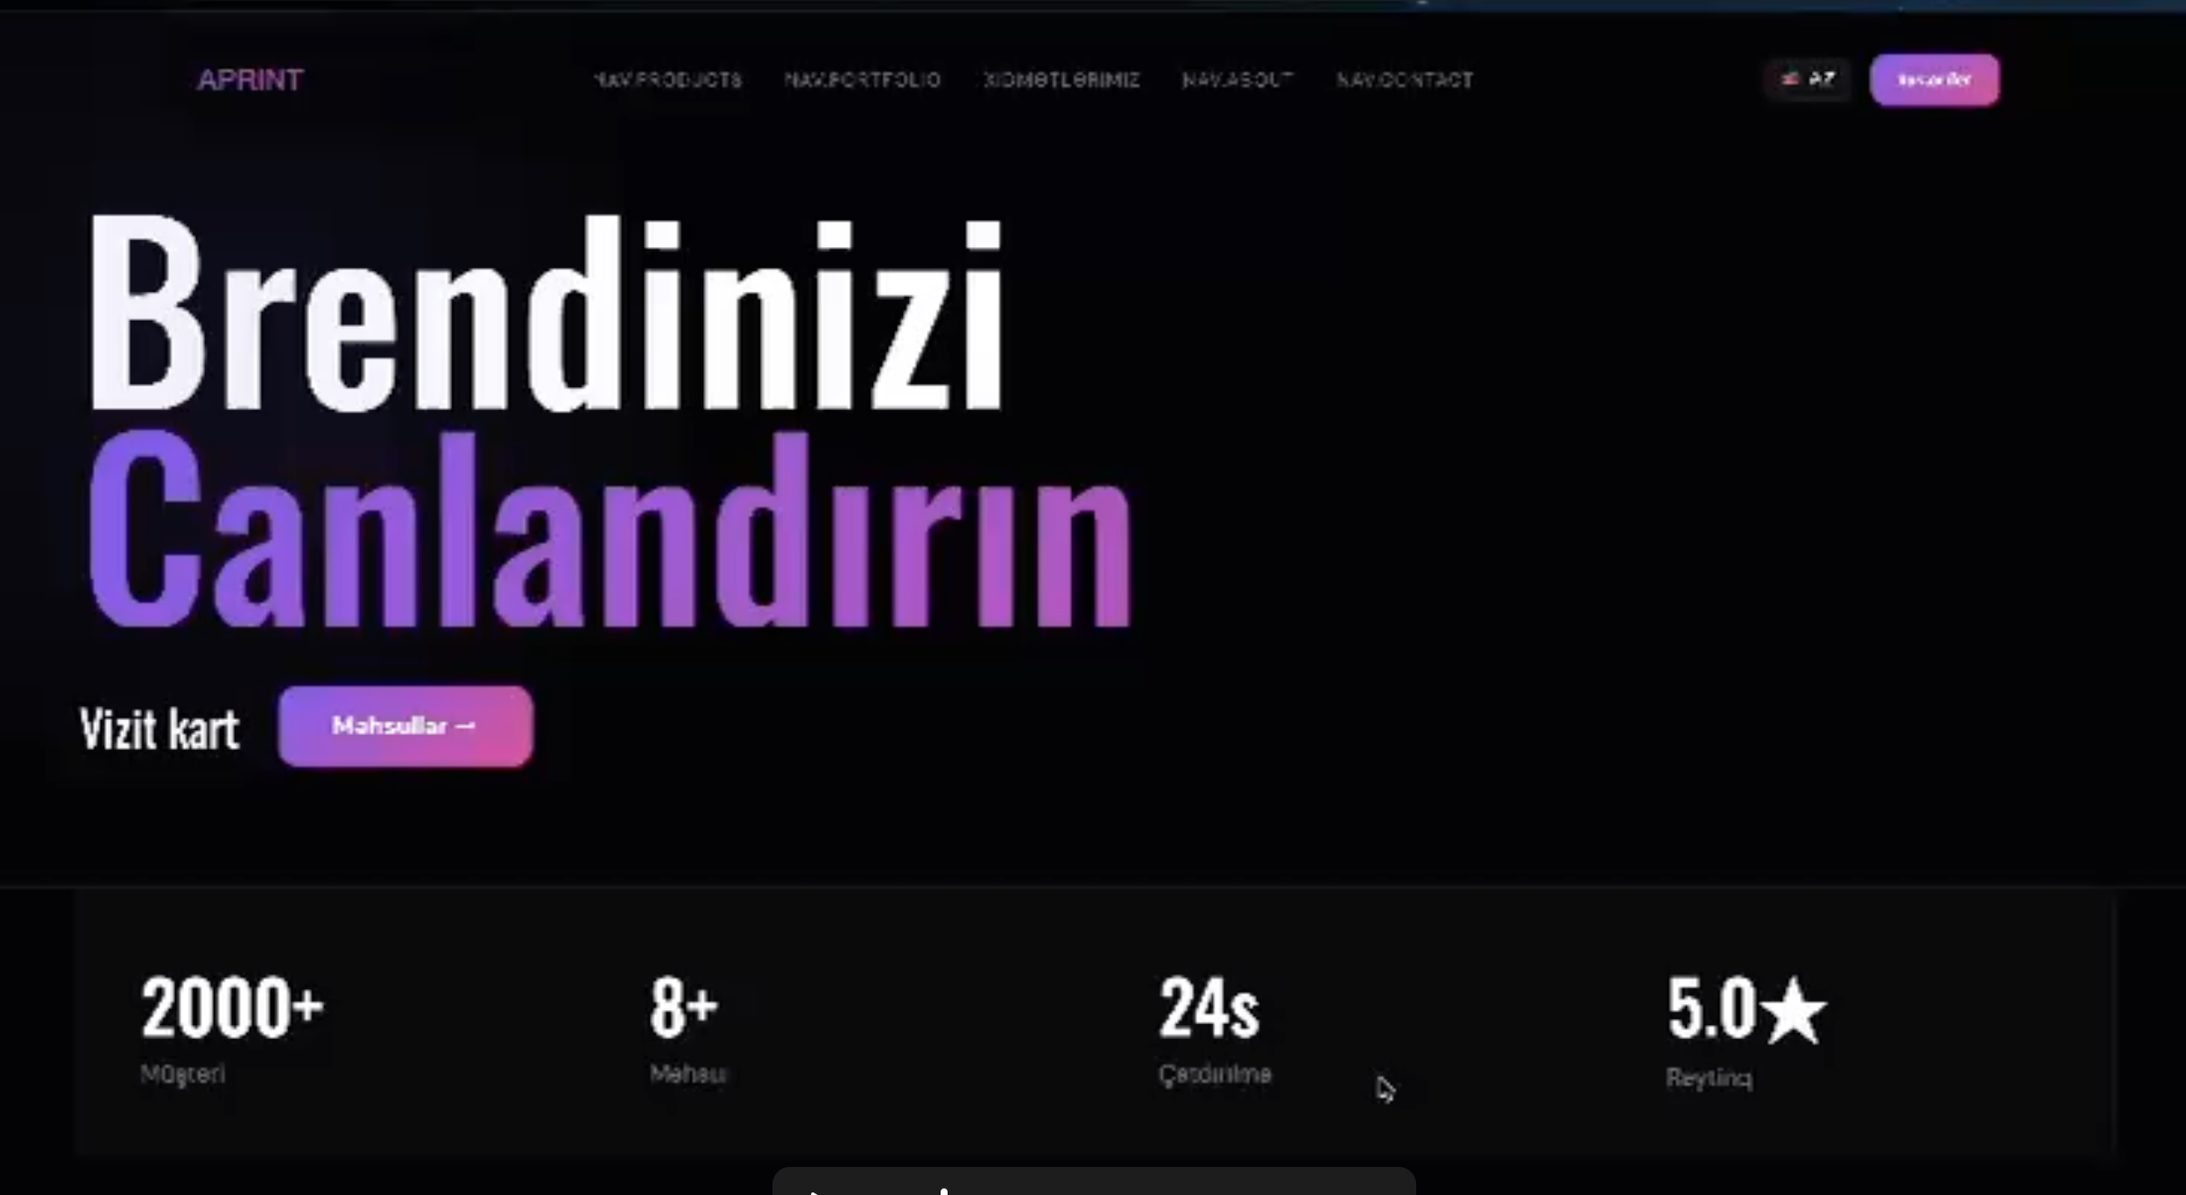
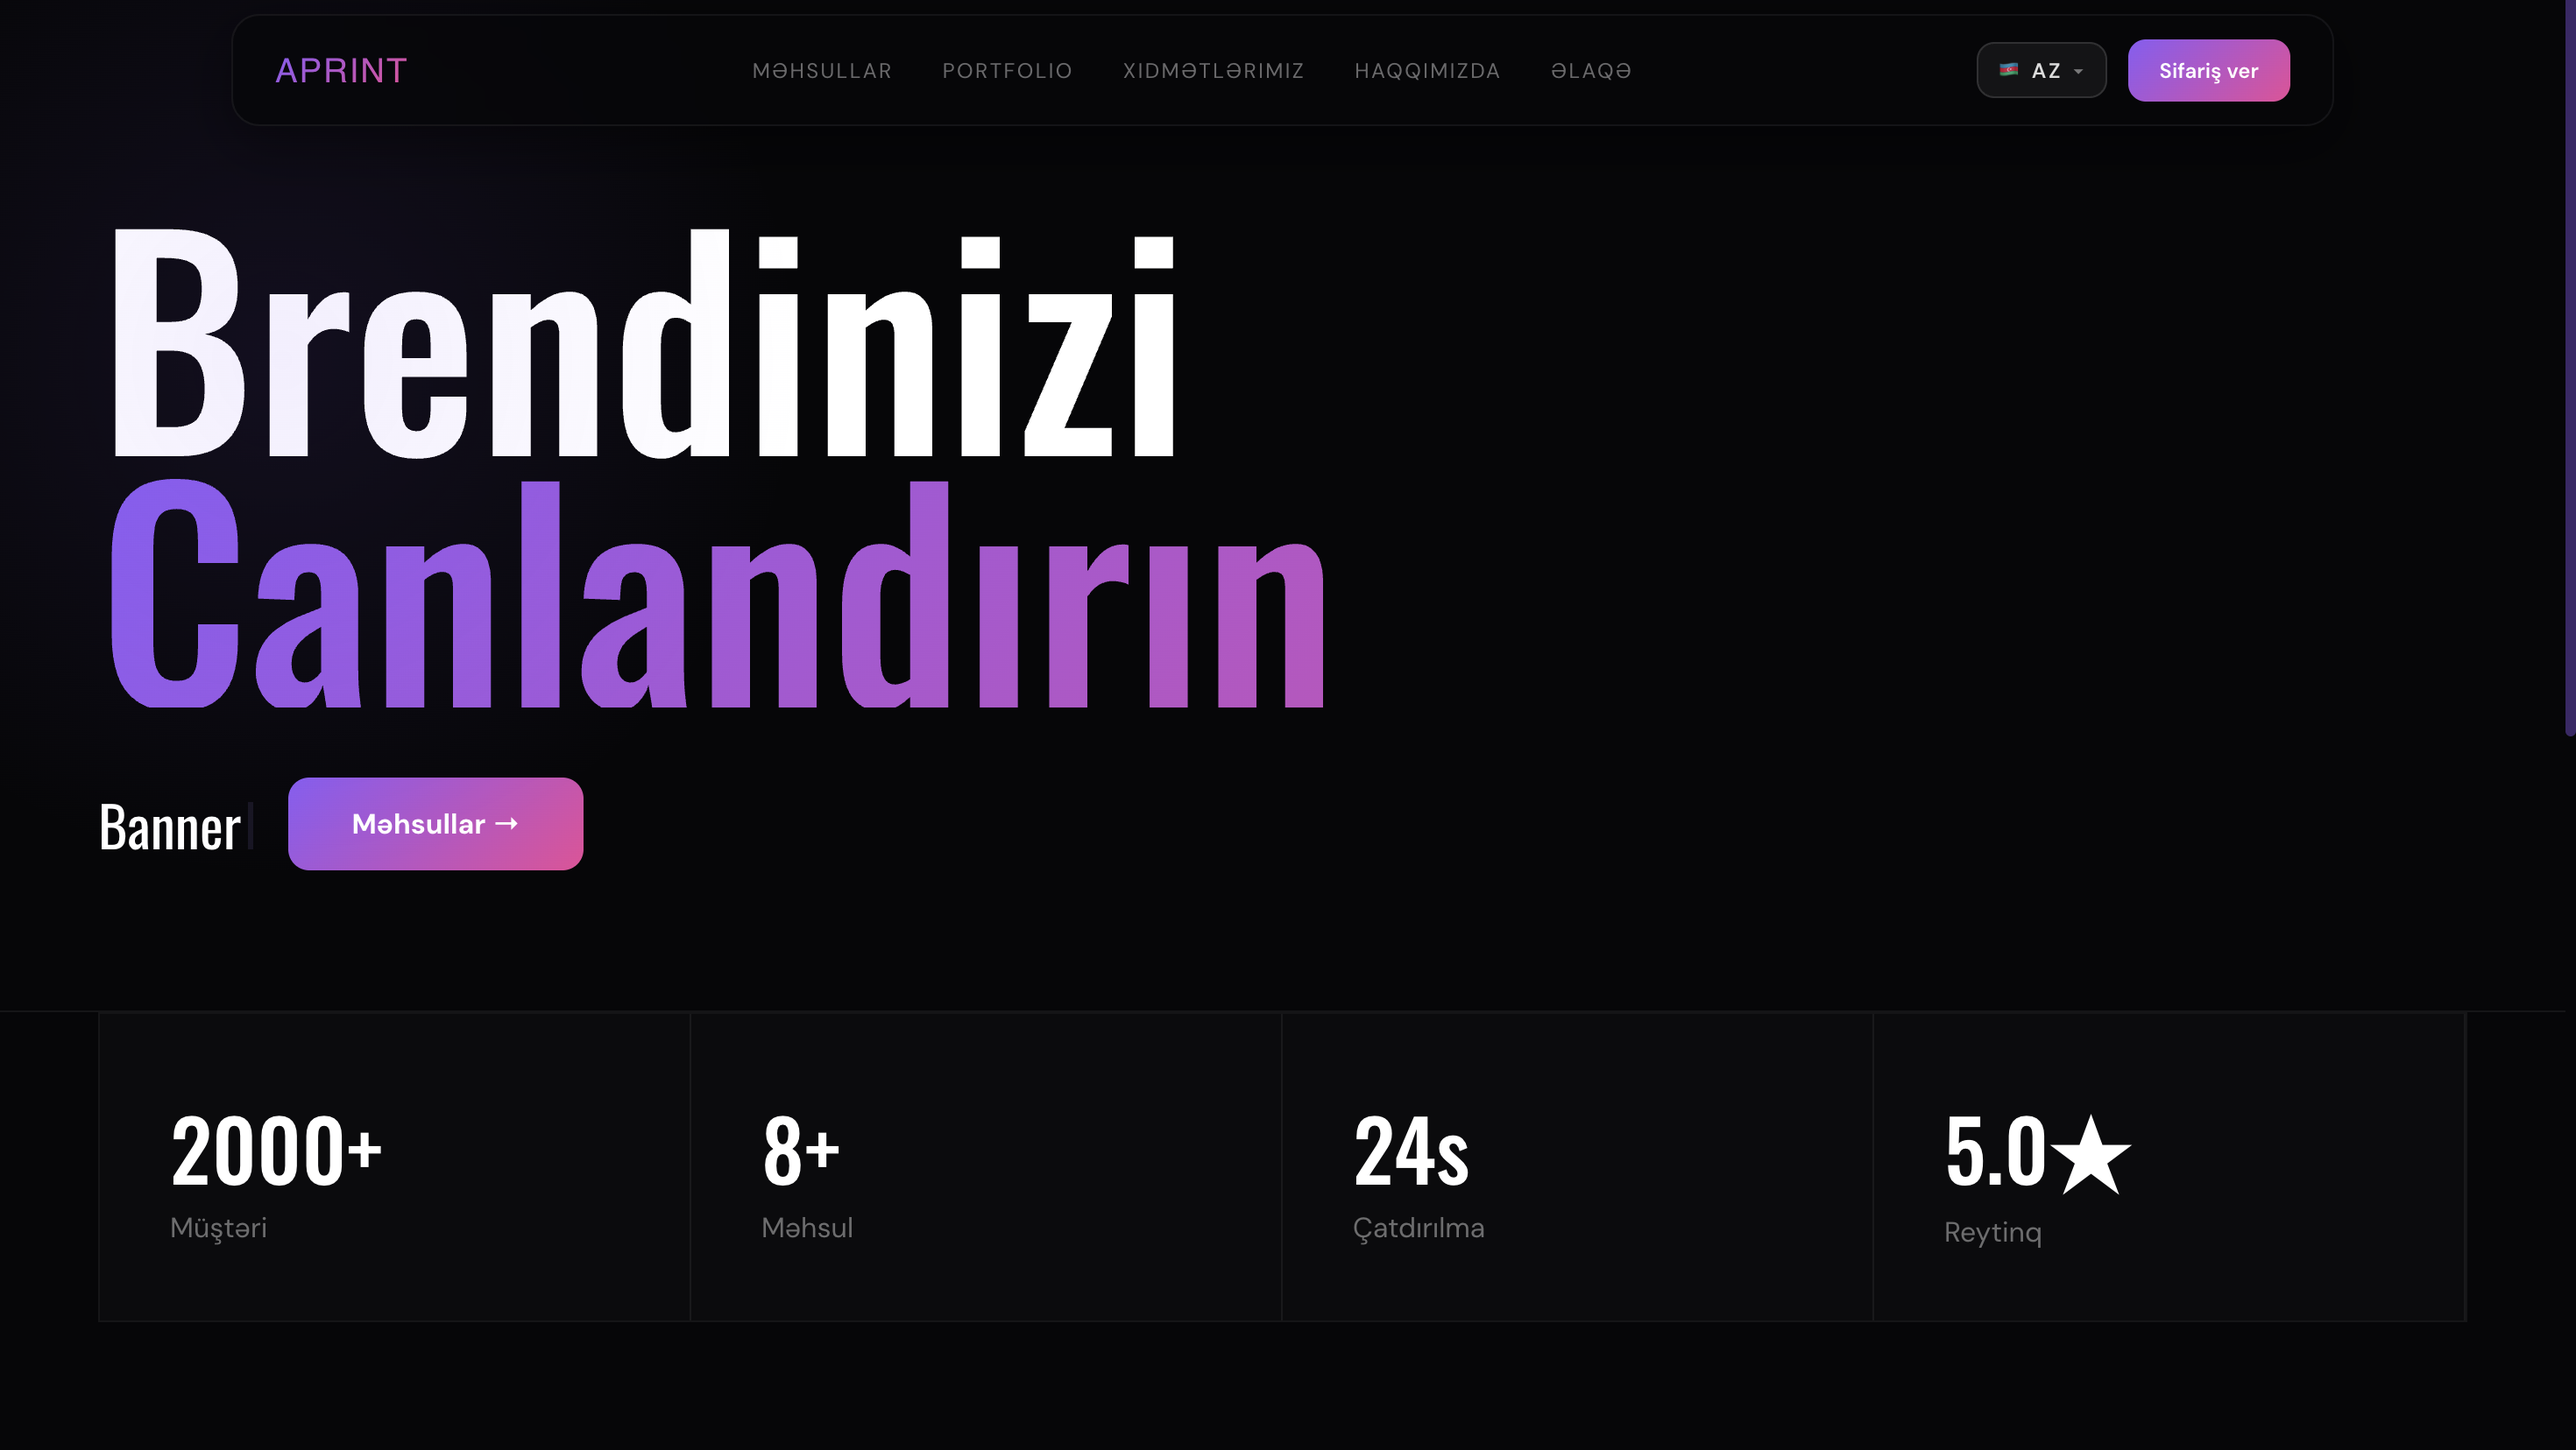
fixed code

diff --git a/src/sections/Hero/Hero.module.css b/src/sections/Hero/Hero.module.css
@@ -83,7 +83,7 @@
   letter-spacing: 0.2em;              /* Wide tracking for UPPERCASE */
   font-weight: 700;
   text-transform: uppercase;
-  color: #7dd3fc;
+  color: #fbfbfb;
   margin: 0 0 24px;                   /* 8pt grid: 24px */
   width: fit-content;
 }
@@ -120,7 +120,7 @@
 }
 
 .headingAccent {
-  background: linear-gradient(135deg, #3b82f6 0%, #60a5fa 50%, #8b5cf6 100%);
+  background: linear-gradient(135deg, #f9f9f9 0%, #ffffff 50%, #fbfbfb 100%);
   -webkit-background-clip: text;
   -webkit-text-fill-color: transparent;
   background-clip: text;
@@ -137,7 +137,7 @@
   line-height: 1.4;
   font-weight: 500;
   letter-spacing: 0;
-  color: #7dd3fc;
+  color: #ffffff;
   margin: 0 0 24px;                             /* 8pt grid: 24px */
 }
 
@@ -341,7 +341,6 @@
   object-fit: contain;
   object-position: center;
   display: block;
-  background: transparent;
 }
 
 /* ── Pagination ── */
@@ -432,66 +431,75 @@
    Type Scale adjusted for mobile readability
    ============================================ */
 
+/* ============================================
+   RESPONSIVE — MOBILE (768px)
+   ============================================ */
+
 @media (max-width: 768px) {
   .heroInner {
-    padding: 80px 24px 64px;          /* 8pt grid */
+    padding: 80px 24px 64px;
     gap: 40px;
   }
 
-  /* Intro */
   .heroIntro {
-    font-size: 0.75rem;               /* 12px */
+    font-size: 0.75rem;
     letter-spacing: 0.18em;
-    margin-bottom: 20px;              /* 8pt grid */
+    margin-bottom: 20px;
   }
 
-  /* Heading — Mobile optimized */
   .heroHeading {
-    font-size: clamp(2rem, 8vw, 3rem);  /* 32px → 48px */
+    font-size: clamp(2rem, 8vw, 3rem);
     line-height: 1.1;
     letter-spacing: -0.02em;
-    margin-bottom: 12px;              /* 8pt grid */
+    margin-bottom: 12px;
   }
 
-  /* Role */
   .heroRole {
-    font-size: 1rem;                  /* 16px */
-    margin-bottom: 20px;              /* 8pt grid */
+    font-size: 1rem;
+    margin-bottom: 20px;
   }
 
-  /* Copy */
   .heroCopy {
-    font-size: 0.9375rem;             /* 15px */
+    font-size: 0.9375rem;
     line-height: 1.65;
-    margin-bottom: 32px;              /* 8pt grid */
+    margin-bottom: 32px;
   }
 
-  /* Visual */
+  /* CAROUSEL */
+
   .heroVisualFrame {
     height: 340px;
     border-radius: 20px;
+    padding: 28px;
+    box-sizing: border-box;
   }
 
-  /* Buttons */
+  .heroSlideImage {
+    width: 100%;
+    height: 100%;
+    margin: 0;
+    object-fit: contain;
+    object-position: center;
+    border-radius: 16px;
+  }
+
   .btnPrimary,
   .btnGhost {
     min-width: 140px;
     padding: 14px 24px;
-    font-size: 0.875rem;              /* 14px */
+    font-size: 0.875rem;
   }
 
   .heroActions {
     margin-bottom: 32px;
   }
 
-  /* Background orb */
   .bgOrb {
     width: 400px;
     height: 400px;
     opacity: 0.6;
   }
 }
-
 /* ============================================
    RESPONSIVE — SMALL MOBILE (480px)
    ============================================ */

diff --git a/src/sections/Services/Services.module.css b/src/sections/Services/Services.module.css
@@ -1,13 +1,6 @@
-/* ============================================
-   SERVICES SECTION — CSS MODULE
-   
-   UI/UX Standards:
-   - Type Scale: Modular (1.250 - Major Third)
-   - Spacing: 8pt Grid System
-   - Line Height: Optimal Vertical Rhythm
-   - Color Contrast: WCAG AA Compliant
-   - Card Design: Modern Service Pattern
-   ============================================ */
+.services * {
+  color: #ffffff !important;
+}
 
 .services {
   position: relative;
@@ -189,9 +182,6 @@
   justify-content: center;
   width: 48px;
   height: 48px;
-  background: linear-gradient(135deg, rgba(59, 130, 246, 0.15), rgba(37, 99, 235, 0.1));
-  border: 1px solid rgba(59, 130, 246, 0.2);
-  border-radius: 14px;
   margin-bottom: 20px;                /* 8pt grid */
   position: relative;
   z-index: 1;
@@ -201,11 +191,7 @@
     transform 0.3s ease;
 }
 
-.serviceCardHovered .serviceNumWrapper {
-  background: linear-gradient(135deg, #3b82f6, #2563eb);
-  border-color: transparent;
-  transform: scale(1.05);
-}
+
 
 .serviceNum {
   font-family: inherit;
@@ -213,7 +199,7 @@
   line-height: 1;
   font-weight: 700;
   letter-spacing: 0.05em;
-  color: var(--blue-bright, #60a5fa);
+  color: var(--blue-bright, #f2f5f7);
   transition: color 0.3s ease;
 }
 

diff --git a/src/translations/data.js b/src/translations/data.js
@@ -1,8 +1,8 @@
-import socialApp from "../assets/images/social-app.png"
-import cvBuilder from "../assets/images/cv-builder.png"
-import branding from "../assets/images/branding.png"
-import filmApp from "../assets/images/film-app.png"
-import ecommerceApp from "../assets/images/ecommerce-app.png" 
+import socialApp from "../assets/images/slide1.png";
+import filmApp from "../assets/images/slide2.png";
+import branding from "../assets/images/slide3.png";
+import cvBuilder from "../assets/images/slide1.png";
+import ecommerceApp from "../assets/images/slide2.png";
 
 export const translations = {
   az: {

diff --git a/src/sections/Contact/Contact.jsx b/src/sections/Contact/Contact.jsx
@@ -7,9 +7,9 @@ import { translations } from '../../translations'
 import styles from './Contact.module.css'
 
 /* ── EmailJS Configuration ── */
-const EMAILJS_SERVICE_ID = 'service_abc123'      // ← Öz Service ID
+const EMAILJS_SERVICE_ID = 'service_htx2k8e'      // ← Öz Service ID
 const EMAILJS_TEMPLATE_ID = 'template_xyz789'    // ← Öz Template ID
-const EMAILJS_PUBLIC_KEY = 'abc123XYZ'           // ← Öz Public Key
+const EMAILJS_PUBLIC_KEY = 'FX5yH6EbphakDfCrd'           // ← Öz Public Key
 
 export default function Contact() {
   const { language } = useLanguage()

diff --git a/src/sections/SKWEBShowcase/SKWEBShowcase.module.css b/src/sections/SKWEBShowcase/SKWEBShowcase.module.css
@@ -281,10 +281,12 @@
     line-height: 1.7;
   }
 
-  .showcaseVideoWrapper::before {
-    inset: -20px;
-    filter: blur(50px);
+
+  .showcaseVideoWrapper {
+    width: calc(100% - 24px);
+    margin: 0 auto;
   }
+
 
   .showcaseVideo {
     border-radius: 20px;
